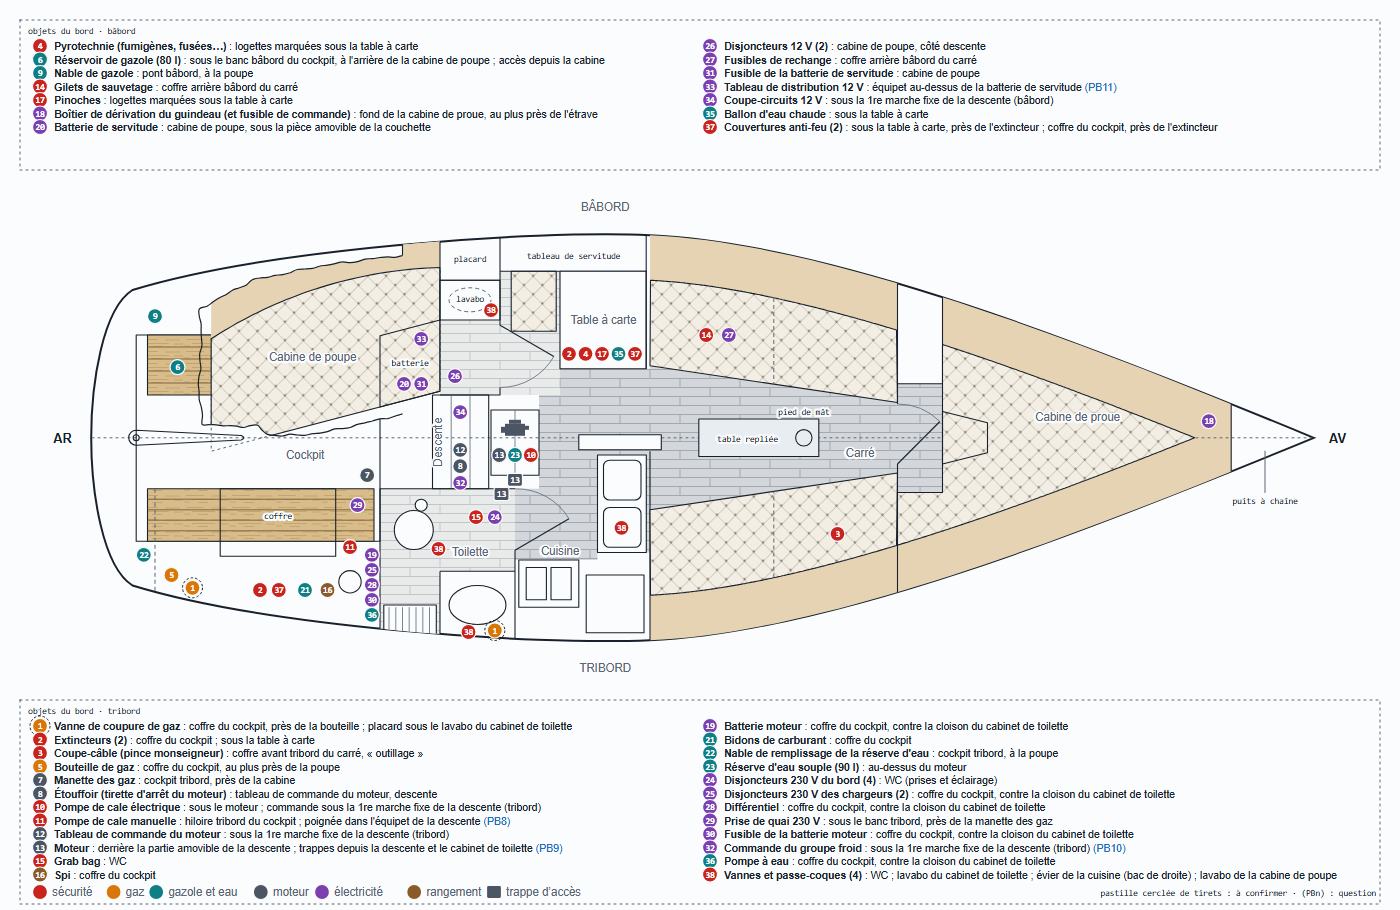
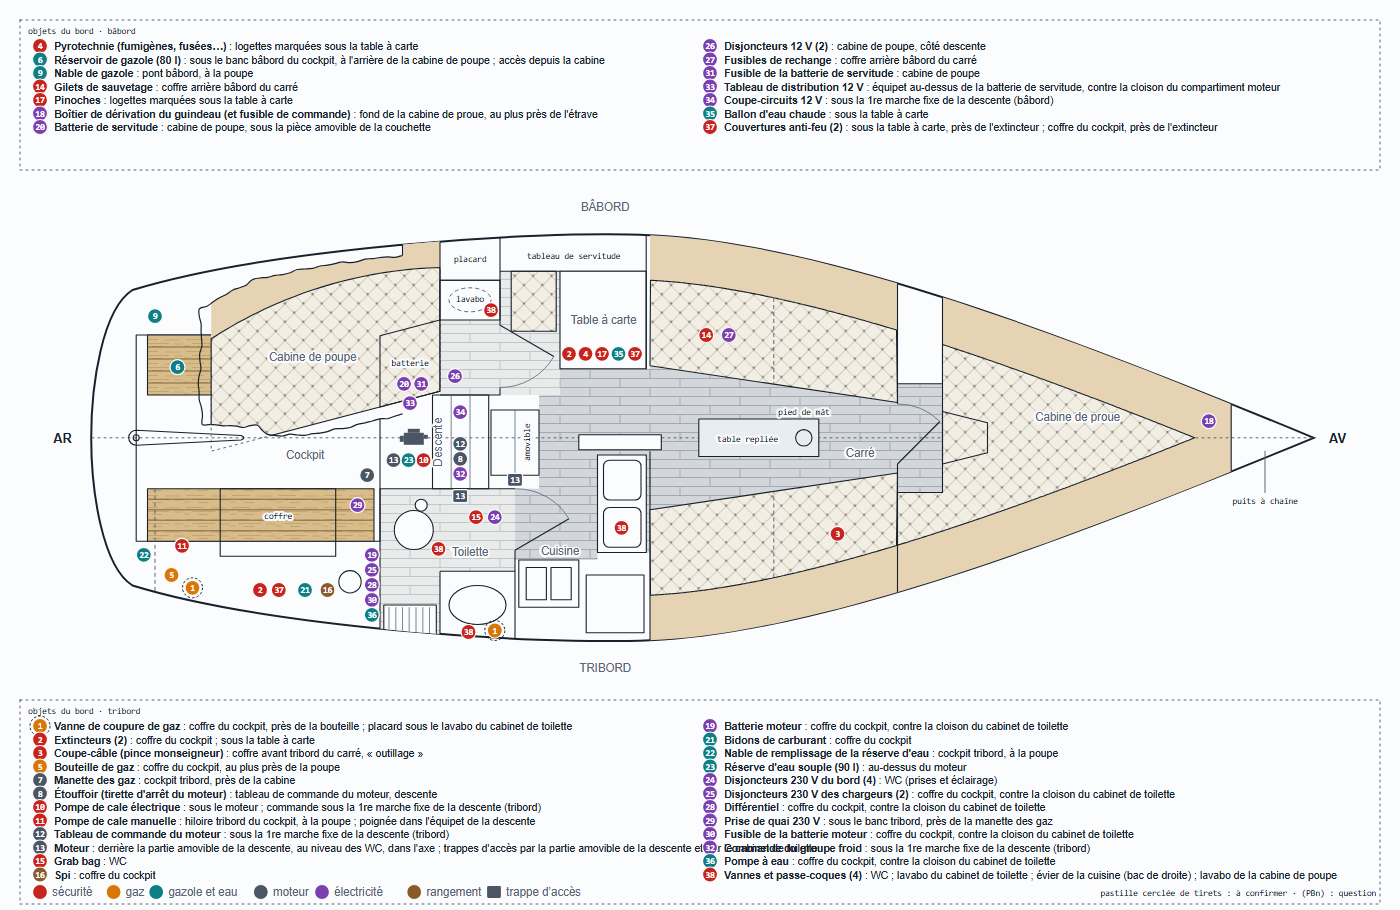
Plan de bord : réponses PB8 à PB11 (pompe manuelle, moteur et trappes, tableau 12 V)
Pompe manuelle à la poupe, sur l'hiloire tribord ; moteur au niveau des WC
dans l'axe, trappe du cabinet de toilette au niveau de la 1re marche fixe ;
tableau de distribution 12 V contre la cloison du compartiment moteur.

diff --git a/brouillons/plan-de-bord/plan_bord.py b/brouillons/plan-de-bord/plan_bord.py
@@ -343,6 +343,7 @@ el.append(text("pin mid halo", 520, 141, "lavabo"))
 el.append(text("pin mid halo", (la[0]+lb[0]+lc[0]+ld[0])/4, (la[1]+lb[1]+lc[1]+ld[1])/4 + 3, "batterie"))
 el.append(text("pin mid halo", 658, 84, "tableau de servitude"))
 el.append(text("pin mid halo", 264, 430, "coffre"))
+el.append(text("pin mid halo", 600, 328, "amovible", -90))
 el.append(text("pin mid halo", 890, 328, "table repliée"))
 el.append(text("pin mid halo", 965, 292, "pied de mât"))
 el.append(text("pin mid halo", 1580, 410, "puits à chaîne"))
@@ -377,7 +378,7 @@ def icone_moteur(X, Y):
 
 
 el.append('<!-- Objets du bord : pastilles (tirets : à confirmer), trappes d’accès, icône du moteur -->')
-el.append(icone_moteur(OX + K * 580, OY + K * 310))
+el.append(icone_moteur(OX + K * 445, OY + K * CY))   # au niveau des WC, dans l'axe
 for o in OBJ:
     for x, y in o["positions"]:
         el.append(pastille(o, OX + K * x, OY + K * y))

diff --git a/brouillons/plan-de-bord/README.md b/brouillons/plan-de-bord/README.md
@@ -8,12 +8,7 @@ Phases :
 2. Données des objets : premier essai le 19/10 dans `objets.yaml`, d'après la feuille Google « Emplacement trucs bateau » (lue sans la modifier), repris le même jour avec la feuille complétée (38 lignes) et les réponses de l'utilisateur. Chaque objet a un numéro, une catégorie (couleur de la pastille), son emplacement en clair et ses positions sur le plan, toutes estimées. À reporter dans le relevé quand les emplacements seront confirmés.
 3. Légendes : premier essai, pastilles numérotées sur le plan (cerclées de tirets quand la feuille dit « à confirmer »), repères carrés pour les trappes d'accès, pictogramme du moteur et liste par bord dans les cadres du haut et du bas, avec la clé des couleurs.
 
-Questions ouvertes (phase 2). PB1 à PB7 ont reçu réponse le 19/10 (coffre du cockpit en pointillés, coffres des banquettes du carré coupés en partie avant et arrière, étouffoir, marche, hiloire, feuille complétée) :
-
-- **PB8** Pompe de cale manuelle, « hiloire tribord du cockpit » : à quelle hauteur de l'hiloire (placée vers l'avant, près de la descente) ?
-- **PB9** Trappes d'accès au moteur : celle de la descente est-elle la partie amovible (placée là) ? Où est celle du cabinet de toilette (placée sur la cloison commune avec la descente, près de la porte) ?
-- **PB10** Commande du groupe froid, « sous le moteur, commande sous la 1re marche (tribord) » : la ligne reprend celle de la pompe de cale ; le groupe froid est relevé dans la cuisine. Où est sa commande ?
-- **PB11** Tableau de distribution 12 V, « équipet au-dessus de la batterie de servitude » : est-ce le tableau Scheiber (relevé dans la descente) ou le tableau de servitude (table à carte) ?
+Questions de la phase 2 : PB1 à PB11, toutes répondues le 19/10. Restent à faire : vérifier les emplacements « à confirmer avec Julie » (vanne de gaz), puis reporter les objets dans le relevé.
 
 `python brouillons/plan-de-bord/plan_bord.py` régénère le SVG ; il reprend le bloc `<style>` du folio 0 et y ajoute les classes `amg`, `amg-f`, `amg-b`, `amg-d`, `amg-l`, `arr`, `halo`, `sol-b`, `sol-h`, `mat`, `teck`, `teck-j`, `vaig`, `vaig-f`, `obj`, `conf`, `tr`, `leg`, `ico-mot` et les classes de catégorie, les variables de couleur des textures et leurs motifs (`<defs>`), à reporter dans tous les folios et dans `page.py` à l'intégration.
 
